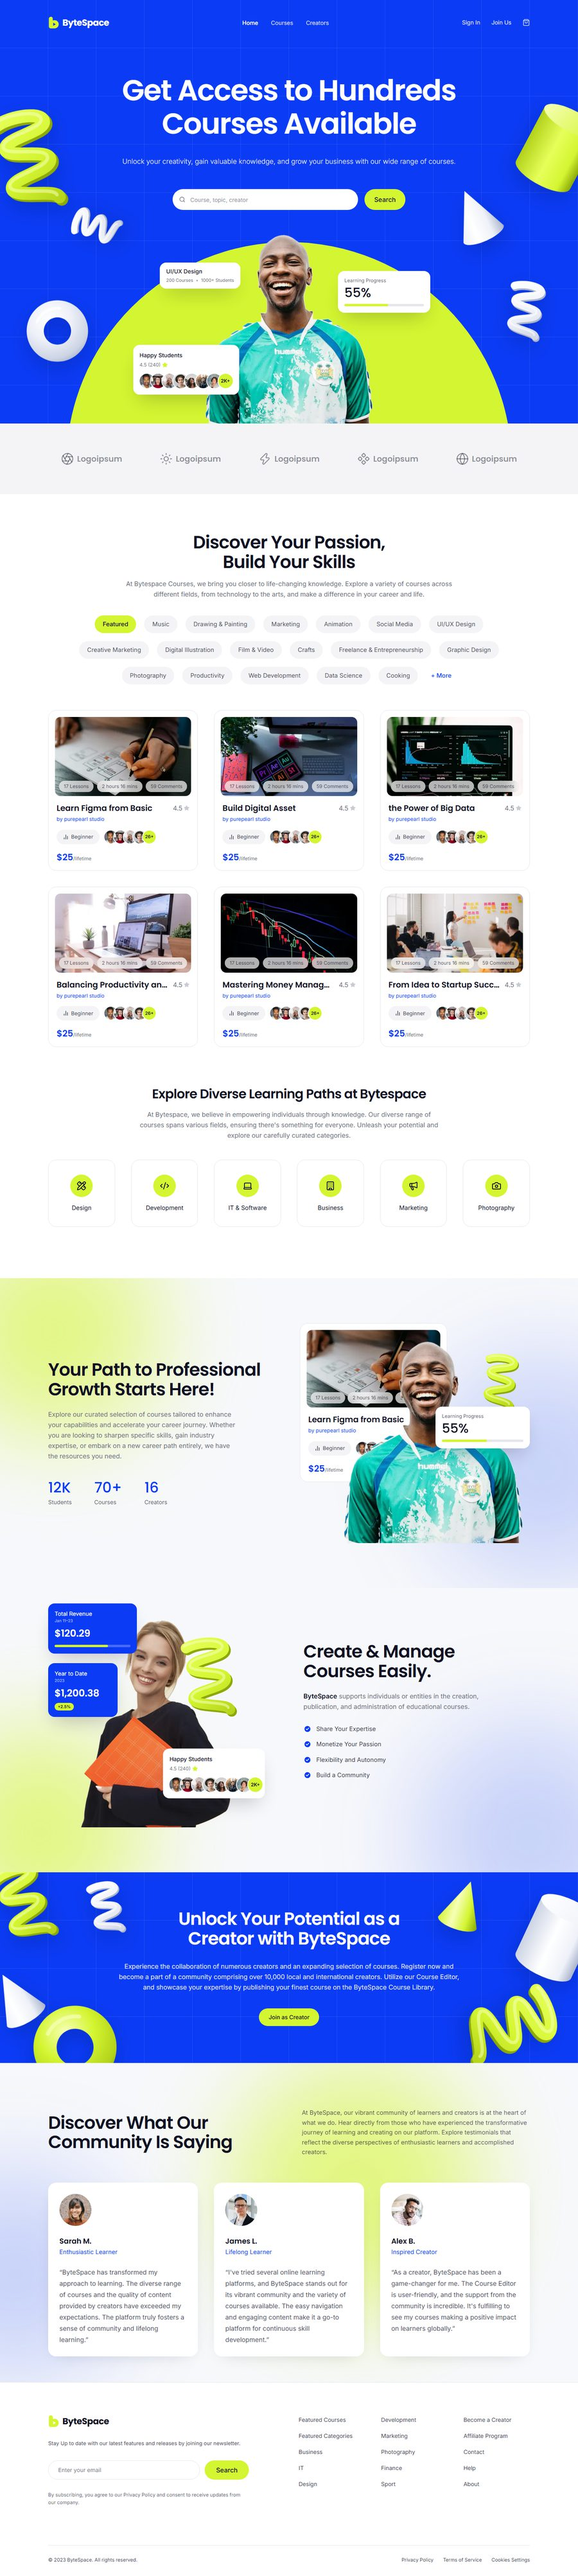
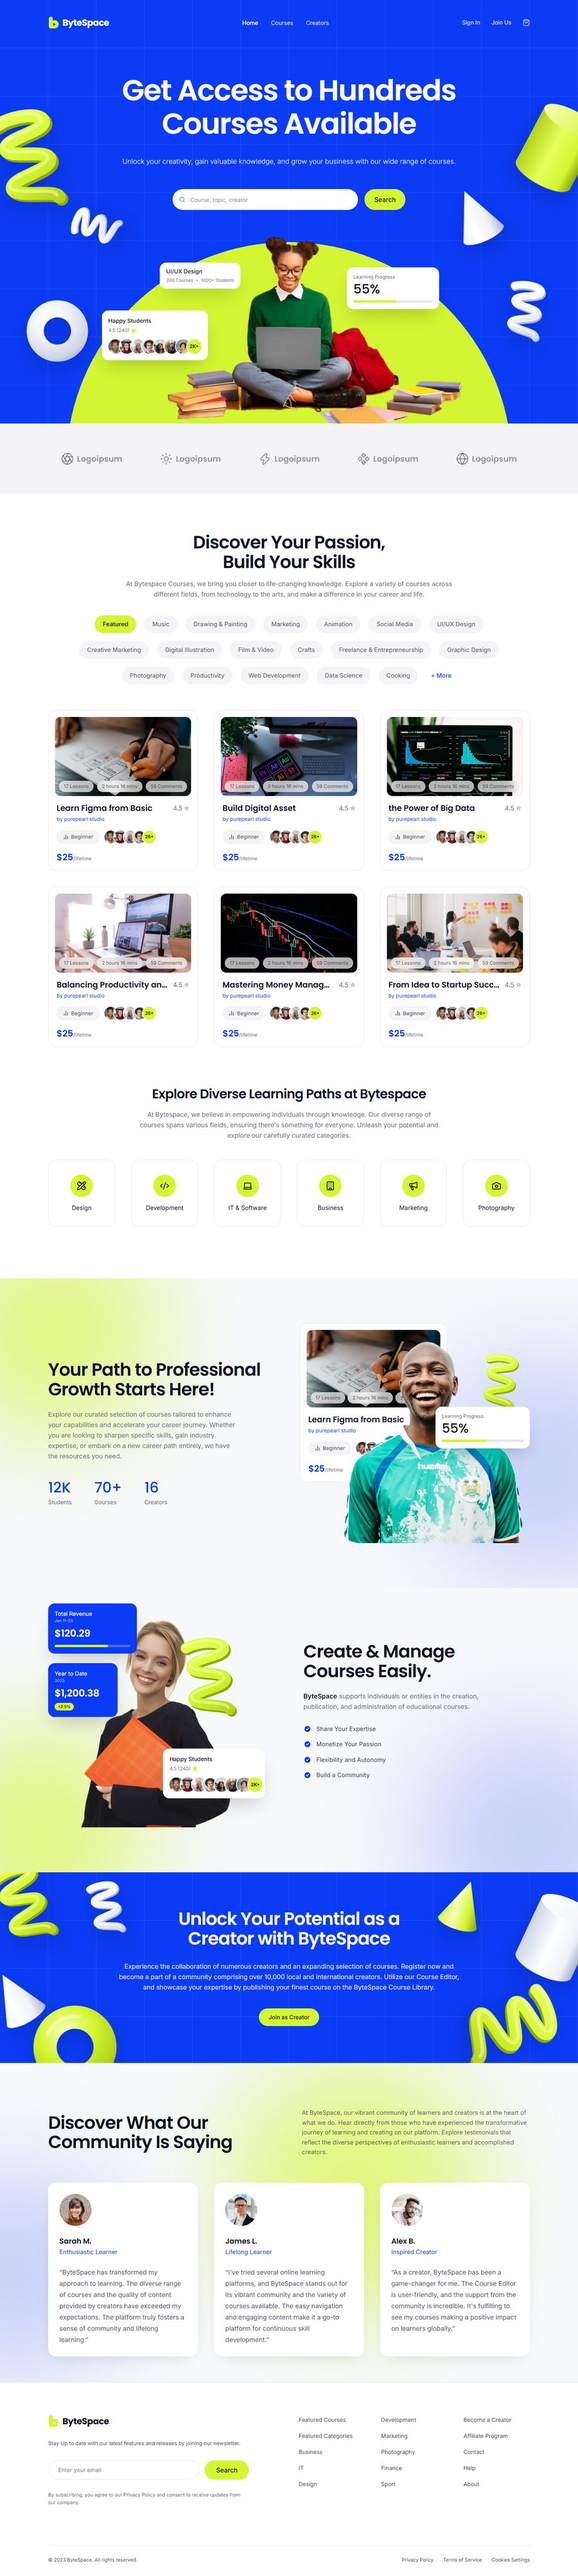
feat: use the new student photo in the hero
Cuts the student, laptop, backpack and books out of the supplied photo (yellow studio background and floor shadows removed, edges de-fringed) and places it on the lime stage, centred on her face. The floating stat cards now show from 1024px up so they never cover her on tablets; on small screens the photo is shown larger.

Changed region(s): [[0.1556, 0.0935, 0.8089, 0.187]]

diff --git a/src/components/sections/home/Hero.tsx b/src/components/sections/home/Hero.tsx
@@ -65,23 +65,24 @@ function HeroStage() {
     <Reveal onMount delay={0.45} className="relative mx-auto mt-16 aspect-[1110/452] w-full max-w-[1110px] lg:mt-20">
       <div aria-hidden className="absolute top-0 left-0 aspect-square w-full rounded-full bg-accent" />
 
+      {/* The student's face sits at ~41% of the image width, so `left = 50% - 0.41 × width` centres her. */}
       <Image
-        src={media.people.student}
-        alt="Smiling student"
-        width={894}
-        height={1005}
+        src={media.people.heroStudent}
+        alt="Student working on a laptop, surrounded by books"
+        width={1110}
+        height={706}
         priority
-        sizes="(min-width: 1110px) 430px, 40vw"
-        className="absolute bottom-0 left-1/2 h-[104%] w-auto -translate-x-1/2"
+        sizes="(min-width: 1110px) 733px, 78vw"
+        className="absolute bottom-0 left-[17.7%] w-[78%] sm:left-[22.7%] sm:w-[66%]"
       />
 
-      <Float className="absolute top-[14%] left-[21%] hidden sm:block" duration={5}>
+      <Float className="absolute top-[14%] left-[21%] hidden lg:block" duration={5}>
         <TopicCard title={highlightTopic.title} meta={[highlightTopic.courses, highlightTopic.students]} />
       </Float>
-      <Float className="absolute top-[16%] left-[61%] hidden w-[230px] sm:block" duration={6} delay={0.4}>
+      <Float className="absolute top-[14%] left-[63%] hidden w-[230px] lg:block" duration={6} delay={0.4}>
         <ProgressCard value={learningProgress} />
       </Float>
-      <Float className="absolute top-[57%] left-[15%] hidden sm:block" duration={5.5} delay={0.8}>
+      <Float className="absolute top-[38%] left-[8%] hidden lg:block" duration={5.5} delay={0.8}>
         <HappyStudentsCard />
       </Float>
     </Reveal>

diff --git a/src/data/media.ts b/src/data/media.ts
@@ -13,6 +13,7 @@ function portrait(id: string) {
 
 export const media = {
   people: {
+    heroStudent: "/images/people/hero-student.webp",
     student: "/images/people/student.webp",
     creator: "/images/people/creator.webp",
   },

diff --git a/docs/PRD.md b/docs/PRD.md
@@ -253,8 +253,9 @@ these fixes before launch:
 - The "Courses ▾" control on the search page chooses what to search: course titles or creator names.
 
 **Assets.** Photos and 3D objects could not be exported from Figma (view-only access). Photos are
-Unsplash placeholders, the two cut-out portraits in `public/images/people/` were made from Unsplash
-photos, and the 3D objects are SVG recreations. Export the originals from Figma into `public/images/`
+Unsplash placeholders and the 3D objects are SVG recreations. The hero student is cut out of a
+supplied photo (yellow studio background removed); the growth and creator cut-outs in
+`public/images/people/` were made from Unsplash photos. Export the originals from Figma into `public/images/`
 and update `src/data/media.ts`.
 
 **Follow-ups.**

diff --git a/README.md b/README.md
@@ -74,8 +74,10 @@ src/
 
 The Figma file is view-only, so the original assets could not be exported:
 
-- Photos are Unsplash placeholders. The two cut-out portraits in `public/images/people/` were made
-  from Unsplash photos for this build.
+- The hero student (`public/images/people/hero-student.webp`) is cut out of a supplied photo, with
+  the yellow studio background removed.
+- Other photos are Unsplash placeholders. The growth and creator cut-outs in `public/images/people/`
+  were made from Unsplash photos for this build.
 - The 3D objects (squiggle, cylinder, cone, torus) are SVG recreations in `src/components/shapes/`.
 
 To use the real assets, export them from Figma into `public/images/` and update `src/data/media.ts`.
